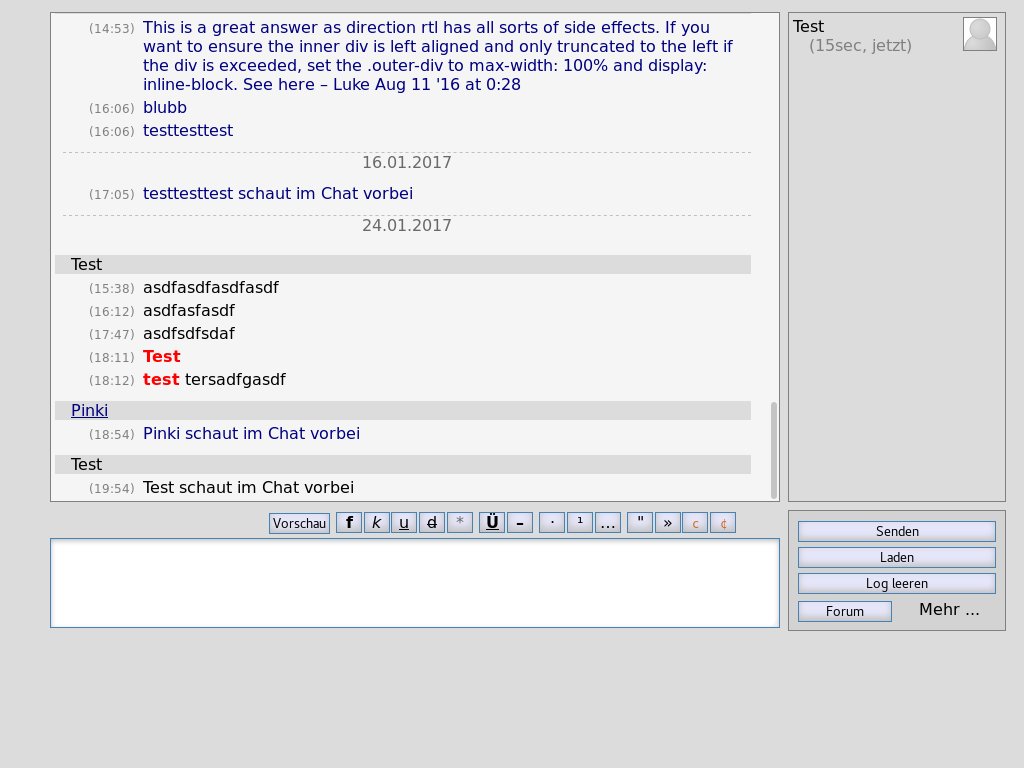
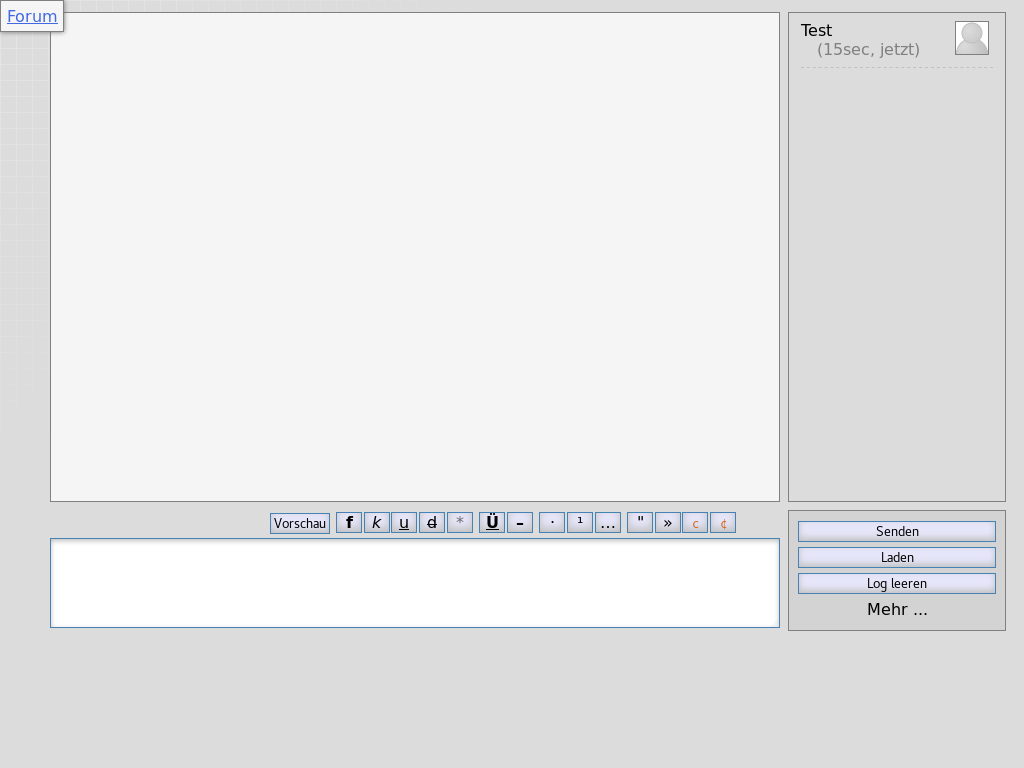
Umgesetzt, fehlt noch der Test

diff --git a/public/js/chat.js b/public/js/chat.js
@@ -9,6 +9,7 @@ ffcdata.chat.init = function() {
     var refreshtimefield = document.getElementById('refreshtime');
     var msglog           = document.getElementById('msglog');
     var userlist         = document.getElementById('userlist');
+    var topiclist        = document.getElementById('forumentries');
     var notifyswitch     = document.getElementById('notifyswitch');
 
     /************************************************************************
@@ -72,6 +73,28 @@ ffcdata.chat.init = function() {
         }
         userlist.innerHTML = ul;
         // console.log('userlist updated');
+    };
+
+    /************************************************************************
+     *** Themenliste befuellen                                            ***
+     ************************************************************************/
+    var update_topiclist = function(topics) {
+        var entries = '';
+
+        for ( var i = 0; i < topics.length; i++ ) {
+            var t = topics[i];
+            entries = entries + '<p';
+            if ( t[3] != '' ) {
+                entries = entries + ' class="' + t[3] + '"';
+            }
+            entries = entries + '><a href="'+ t[0] +'">' + t[1] + '</a>';
+            if ( t[2] > 0 ) {
+                entries = entries + ' (<span class="mark">' + t[2] + '</span>)'
+            }
+            entries = entries + '</p>';
+        }
+
+        topiclist.innerHTML = entries;
     };
 
     /************************************************************************
@@ -183,6 +206,9 @@ ffcdata.chat.init = function() {
 
         // Benutzerliste aktualisieren
         update_userlist(data[1]);
+
+        // Topic-Liste aktualisieren
+        update_topiclist(data[4]);
 
         // Neue Nachrichten ins Log schreiben
         add_msgs(data[0], started);

diff --git a/public/theme/chat.css b/public/theme/chat.css
@@ -5,7 +5,7 @@
 body {
     font-family: sans-serif;
     color: black;
-    background: gainsboro;
+    background: gainsboro url('img/chg.png') no-repeat fixed top left;
     overflow: hidden;
     width: 65em;
     height: 30em;
@@ -202,7 +202,7 @@ span.chatoptionpopupswitch {
     color: black;
 }
 .chatoptionpopup .popup {
-    margin-left: -7em;
+    margin-left: -4em;
 }
 input#refreshtime {
     width: 4em;
@@ -222,6 +222,7 @@ input#refreshtime {
 #forumbutton {
     box-shadow: 0 0 .25em dimgrey;
     background-color: whitesmoke;
+    overflow: visible;
 }
 #forumbutton {
     position: fixed;
@@ -231,8 +232,14 @@ input#refreshtime {
     margin: 0;
     border: .1em gray solid;
 }
-#forumbutton p {
+#forumbutton > p {
     margin: .25em;
+}
+#forumentries {
+    width: 15em;
+}
+#forumentries > p {
+    border-bottom: .1em silver dashed;
 }
 
 

diff --git a/public/theme/colors.css b/public/theme/colors.css
@@ -137,7 +137,7 @@ a.coloroption:hover {
     color: gainsboro;
     background: whitesmoke;
 }
-.menu .pin {
+.forumoptionpopup .pin, ..menu .pin {
     background-color: lightgoldenrodyellow;
 }
 ul.topiclist {
@@ -146,7 +146,7 @@ ul.topiclist {
 .mark {
     color: palevioletred;
 }
-h2.newpost, .newpost h1, .newpost .title, input.activesearch {
+.forumoptionpopup .newpost, h2.newpost, .newpost h1, .newpost .title, input.activesearch {
     background: lemonchiffon;
 }
 .topiclist .newpost, .newpost h1, .newpost .title, input.activesearch, .newpost .avatar {
@@ -240,7 +240,7 @@ pre {
 .ignored {
     background: whitesmoke;
 }
-.menu .ignored {
+.forumoptionpopup .ignored, .menu .ignored {
     background: gainsboro;
 }
 .score {

diff --git a/public/theme/large.css b/public/theme/large.css
@@ -364,4 +364,7 @@ button:active, #editbuttons .buttonalike:active {
 #chatbutton p {
     margin: .25em;
 }
+.topicpopup > p, .userspopup > p, .optionspopup > p {
+    border-bottom: .1em silver dashed;
+}
 
